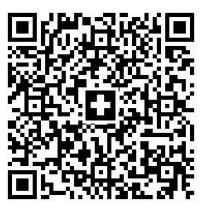
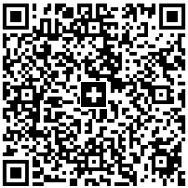
new qr spendekonto

diff --git a/public/index.html b/public/index.html
@@ -622,7 +622,7 @@ Auf unserer Ranch Tutu haben wir endlich die Möglichkeit, Bobby und Milica ein 
 
     <div class="f6 mt1">Mila</div>
   </a>
-  <a href="/unsere-hunde/#louWinniAva" class="tc no-underline">
+  <a href="/unsere-hunde/#louwinniava" class="tc no-underline">
     <figure><img src="/images/louWinniAva/louWinniAva1.jpeg"
         alt="LouWinniAva">
     </figure>
